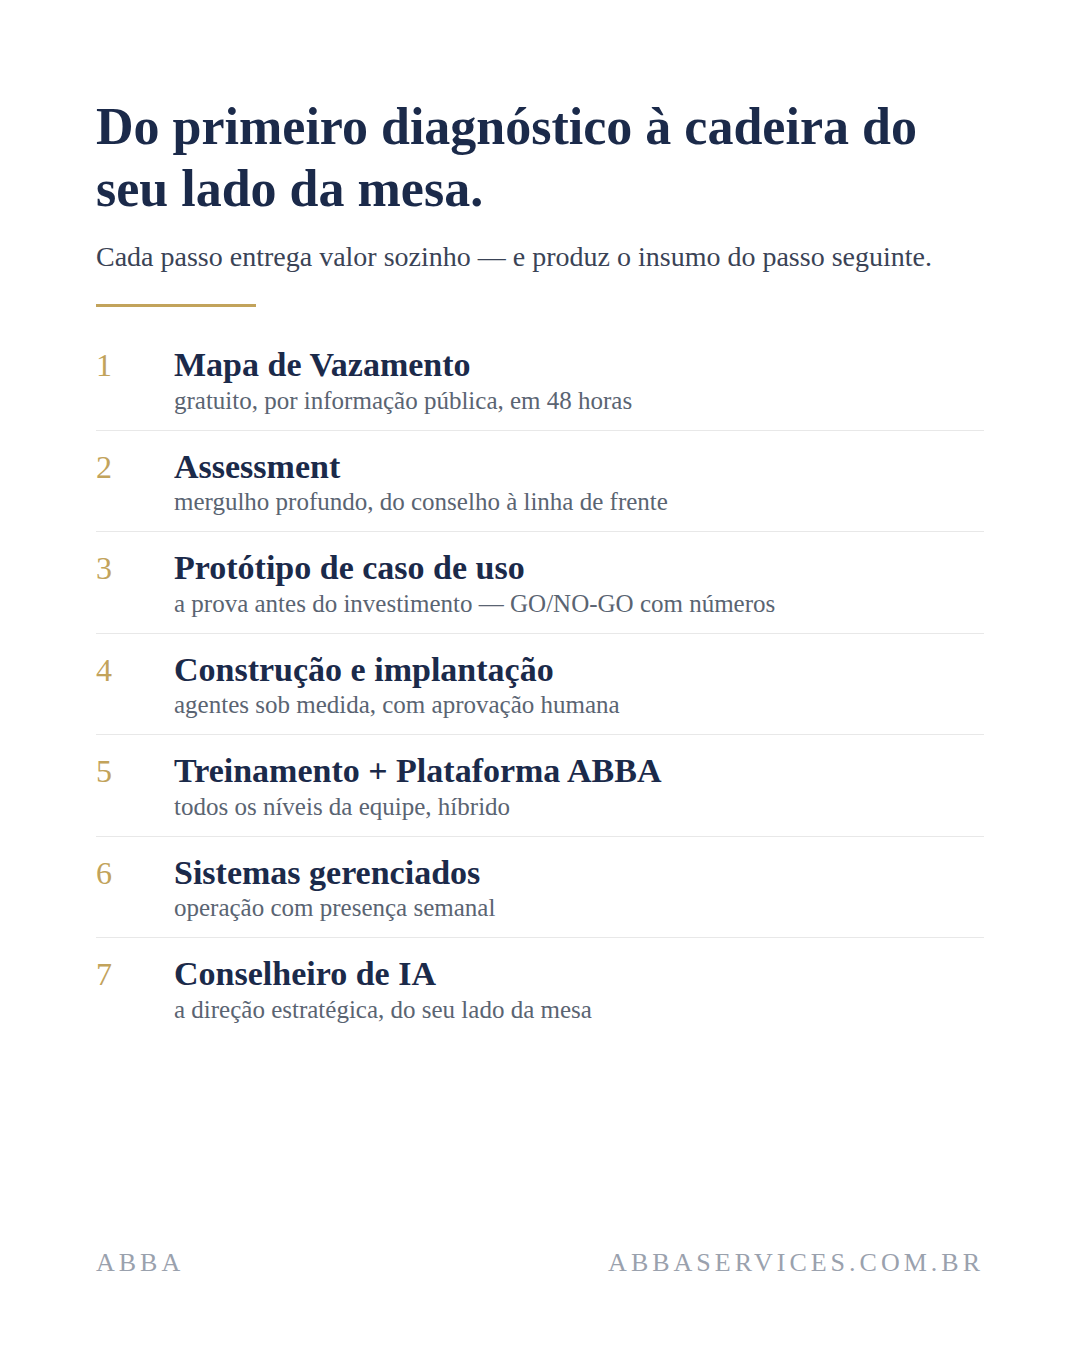
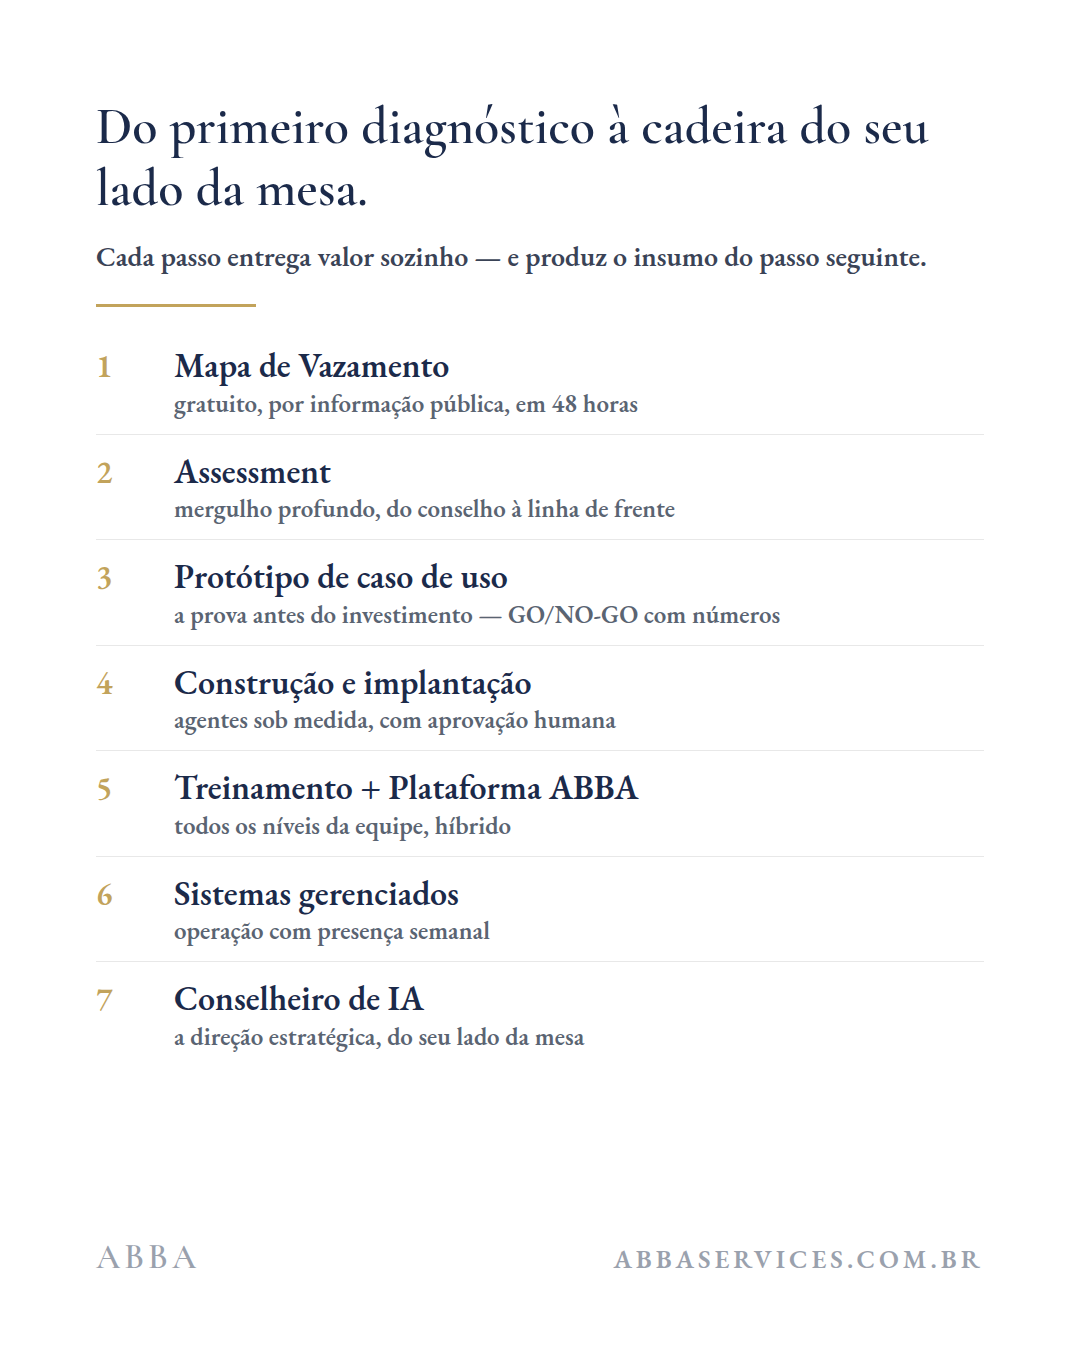
Materiais de marketing v4 completos: grade, templates e nominais
Grade-vitrine e templates de post migrados para a tipografia da marca
(Cormorant display + EB Garamond no corpo) com o wordmark limpo no
rodape e no lugar do simbolo antigo; 16 quadros re-exportados. Ativos
de export/ substituidos pelas versoes v4. Cartoes de visita e
assinaturas de e-mail nominais do Daniel e do Pedro.

Claude-Session: https://claude.ai/code/session_01P1NuzuZ6oRdWWVA2eDhNti

diff --git a/08-materiais/marca/oficial/nominais.html b/08-materiais/marca/oficial/nominais.html
@@ -1,0 +1,88 @@
+<!doctype html>
+<html lang="pt-BR">
+<head>
+<meta charset="utf-8">
+<title>ABBA — cartões e assinaturas nominais</title>
+<style>
+  @font-face { font-family: 'Cormorant'; src: url('../wordmark/fonts/CormorantGaramond.ttf'); font-weight: 100 900; }
+  @font-face { font-family: 'EBGaramond'; src: url('../wordmark/fonts/EBGaramond.ttf'); font-weight: 100 900; }
+  * { margin: 0; padding: 0; box-sizing: border-box; }
+  body { background: #4a4a4a; }
+  .asset { margin: 20px auto; }
+  .mark { font-family: 'Cormorant', serif; font-weight: 600; line-height: 1;
+          letter-spacing: 0.12em; text-indent: 0.12em; }
+  .vers { font-family: 'EBGaramond', serif; letter-spacing: 0.3em; text-indent: 0.3em;
+          text-transform: uppercase; }
+
+  .cartao { width: 1050px; height: 600px; background: #FFFFFF; padding: 70px 80px;
+            display: flex; flex-direction: column; justify-content: space-between; }
+  .cartao .topo .mark { font-size: 74px; color: #1B2A4A; }
+  .cartao .meio { display: flex; flex-direction: column; gap: 8px; }
+  .cartao .meio .filete-h { width: 120px; height: 2px; background: #C2A35B; margin-bottom: 18px; }
+  .cartao .meio .nome { font-family: 'Cormorant', serif; font-weight: 600; font-size: 52px;
+                        color: #1B2A4A; }
+  .cartao .meio .cargo { font-size: 21px; color: #C2A35B; }
+  .cartao .base { font-family: 'EBGaramond', serif; font-size: 26px; color: #5A6472;
+                  display: flex; justify-content: space-between; }
+
+  .ass { width: 700px; height: 230px; background: #FFFFFF; display: flex; align-items: center;
+         padding: 0 40px; gap: 36px; }
+  .ass .mark { font-size: 84px; color: #1B2A4A; }
+  .ass .filete-v { width: 2px; height: 120px; background: #C2A35B; }
+  .ass .info { display: flex; flex-direction: column; gap: 6px; }
+  .ass .info .nome { font-family: 'Cormorant', serif; font-weight: 600; font-size: 34px; color: #1B2A4A; }
+  .ass .info .cargo { font-family: 'EBGaramond', serif; font-size: 16px; color: #C2A35B;
+                      letter-spacing: 0.22em; text-transform: uppercase; }
+  .ass .info .site { font-family: 'EBGaramond', serif; font-size: 18px; color: #5A6472; margin-top: 6px; }
+</style>
+</head>
+<body>
+
+<div class="asset cartao" id="cartao-daniel">
+  <div class="topo"><span class="mark">ABBA</span></div>
+  <div class="meio">
+    <div class="filete-h"></div>
+    <div class="nome">Daniel Moraes Coca</div>
+    <div class="cargo vers">Sócio-fundador</div>
+  </div>
+  <div class="base">
+    <span>daniel.coca@abbaservices.com.br</span>
+    <span>abbaservices.com.br</span>
+  </div>
+</div>
+
+<div class="asset cartao" id="cartao-pedro">
+  <div class="topo"><span class="mark">ABBA</span></div>
+  <div class="meio">
+    <div class="filete-h"></div>
+    <div class="nome">Pedro Moura Durães</div>
+    <div class="cargo vers">Sócio-fundador</div>
+  </div>
+  <div class="base">
+    <span>pedro.duraes@abbaservices.com.br</span>
+    <span>abbaservices.com.br</span>
+  </div>
+</div>
+
+<div class="asset ass" id="ass-daniel">
+  <span class="mark">ABBA</span>
+  <div class="filete-v"></div>
+  <div class="info">
+    <div class="nome">Daniel Moraes Coca</div>
+    <div class="cargo">Sócio-fundador</div>
+    <div class="site">daniel.coca@abbaservices.com.br · abbaservices.com.br</div>
+  </div>
+</div>
+
+<div class="asset ass" id="ass-pedro">
+  <span class="mark">ABBA</span>
+  <div class="filete-v"></div>
+  <div class="info">
+    <div class="nome">Pedro Moura Durães</div>
+    <div class="cargo">Sócio-fundador</div>
+    <div class="site">pedro.duraes@abbaservices.com.br · abbaservices.com.br</div>
+  </div>
+</div>
+
+</body>
+</html>

diff --git a/08-materiais/marca/grade-vitrine.html b/08-materiais/marca/grade-vitrine.html
@@ -11,8 +11,10 @@
   premissa, citação institucional sem autor, rodapé ABBA · abbaservices.com.br.
 -->
 <style>
+  @font-face { font-family: 'Cormorant'; src: url('wordmark/fonts/CormorantGaramond.ttf'); font-weight: 100 900; }
+  @font-face { font-family: 'EBGaramond'; src: url('wordmark/fonts/EBGaramond.ttf'); font-weight: 100 900; }
   * { margin: 0; padding: 0; box-sizing: border-box; }
-  body { background: #333; font-family: Cambria, Georgia, 'Times New Roman', serif; }
+  body { background: #333; font-family: 'EBGaramond', Georgia, serif; }
   .frame { position: relative; overflow: hidden; margin: 24px auto; }
   .f45 { width: 1080px; height: 1350px; }
   .f11 { width: 1080px; height: 1080px; }
@@ -21,10 +23,11 @@
   .rodape { position: absolute; left: 96px; right: 96px; bottom: 72px;
             display: flex; justify-content: space-between; align-items: baseline;
             font-size: 26px; letter-spacing: 4px; text-transform: uppercase; }
+  .rodape span:first-child { font-family: 'Cormorant', serif; font-weight: 600;
+            font-size: 34px; letter-spacing: 0.12em; }
 
   .navy  { background: #1B2A4A; color: #FFFFFF; padding: 120px 96px; }
-  .navy .simbolo { position: absolute; right: -110px; bottom: -60px; width: 520px; opacity: 0.16; }
-  .navy h1 { font-size: 84px; line-height: 1.16; font-weight: 600; max-width: 860px; margin: 48px 0 56px; }
+  .navy h1 { font-family: 'Cormorant', serif; font-size: 84px; line-height: 1.16; font-weight: 600; max-width: 860px; margin: 48px 0 56px; }
   .navy h1 em { font-style: normal; color: #C2A35B; }
   .navy .filete { width: 220px; margin-bottom: 40px; }
   .navy .sub { font-size: 38px; line-height: 1.45; color: #B9C0CE; max-width: 780px; }
@@ -32,7 +35,7 @@
 
   .branco { background: #FFFFFF; color: #1B2A4A; padding: 120px 96px; }
   .branco .num { font-size: 44px; color: #C2A35B; margin-bottom: 24px; font-variant-numeric: tabular-nums; }
-  .branco h2 { font-size: 62px; line-height: 1.2; font-weight: 600; margin-bottom: 48px; max-width: 860px; }
+  .branco h2 { font-family: 'Cormorant', serif; font-size: 62px; line-height: 1.2; font-weight: 600; margin-bottom: 48px; max-width: 860px; }
   .branco .filete { width: 160px; margin-bottom: 56px; }
   .branco p { font-size: 40px; line-height: 1.55; color: #3A4356; max-width: 870px; margin-bottom: 36px; }
   .branco p strong { color: #1B2A4A; }
@@ -40,12 +43,12 @@
 
   .citacao { background: #1B2A4A; color: #FFFFFF; padding: 110px 96px; display: flex; flex-direction: column; }
   .citacao .aspas { font-size: 200px; line-height: 0.6; color: #C2A35B; margin-bottom: 20px; }
-  .citacao blockquote { font-size: 60px; line-height: 1.32; font-weight: 600; max-width: 880px; flex: 1; }
+  .citacao blockquote { font-family: 'Cormorant', serif; font-size: 60px; line-height: 1.32; font-weight: 600; max-width: 880px; flex: 1; }
   .citacao .rodape { color: #8C96A8; } .citacao .rodape .m { color: #C2A35B; }
 
   .numero { background: #FFFFFF; color: #1B2A4A; padding: 110px 96px; display: flex; flex-direction: column; }
   .numero .eyebrow { margin-bottom: 64px; }
-  .numero .big { font-size: 250px; line-height: 1; font-weight: 700; font-variant-numeric: tabular-nums; }
+  .numero .big { font-family: 'Cormorant', serif; font-size: 250px; line-height: 1; font-weight: 700; font-variant-numeric: tabular-nums; }
   .numero .big small { font-size: 110px; color: #C2A35B; }
   .numero .filete { width: 180px; margin: 44px 0; }
   .numero p { font-size: 41px; line-height: 1.5; color: #3A4356; max-width: 850px; }

diff --git a/08-materiais/marca/templates-posts.html b/08-materiais/marca/templates-posts.html
@@ -21,7 +21,11 @@
 -->
 <style>
   * { margin: 0; padding: 0; box-sizing: border-box; }
-  body { background: #333; font-family: Cambria, Georgia, 'Times New Roman', serif; }
+  @font-face { font-family: 'Cormorant'; src: url('wordmark/fonts/CormorantGaramond.ttf'); font-weight: 100 900; }
+  @font-face { font-family: 'EBGaramond'; src: url('wordmark/fonts/EBGaramond.ttf'); font-weight: 100 900; }
+  body { background: #333; font-family: 'EBGaramond', Georgia, serif; }
+  .wmark { font-family: 'Cormorant', serif; font-weight: 600; letter-spacing: 0.12em;
+           text-indent: 0.12em; line-height: 1; }
   .frame { position: relative; overflow: hidden; margin: 24px auto; }
   .f-1080x1350 { width: 1080px; height: 1350px; }
   .f-1080x1080 { width: 1080px; height: 1080px; }
@@ -36,6 +40,7 @@
     display: flex; justify-content: space-between; align-items: baseline;
     font-size: 26px; letter-spacing: 4px; text-transform: uppercase;
   }
+  .rodape span:first-child { font-family: 'Cormorant', serif; font-weight: 600; font-size: 32px; letter-spacing: 0.12em; }
 
   /* ---------- 1. CAPA DE CARROSSEL (navy) ---------- */
   .capa { background: #1B2A4A; color: #FFFFFF; padding: 120px 96px; }
@@ -98,7 +103,7 @@
 
 <!-- ============ 1. CAPA DE CARROSSEL — 1080×1350 ============ -->
 <div class="frame f-1080x1350 capa" id="t1-capa">
-  <img class="simbolo" src="abba-logo-simbolo.svg" alt="">
+  <div class="wmark" style="font-size:120px;color:#FFFFFF;margin-bottom:56px">ABBA</div>
   <div class="eyebrow">[Série ou pilar — ex.: Prova, não impressão]</div>
   <h1>[Afirmação forte em uma frase, com <em>o termo-chave</em> em dourado]</h1>
   <hr class="filete">
@@ -118,7 +123,7 @@
 
 <!-- ============ 3. SLIDE-CTA — 1080×1350 ============ -->
 <div class="frame f-1080x1350 cta" id="t3-cta">
-  <img class="simbolo" src="abba-logo-simbolo.svg" alt="ABBA">
+  <div class="wmark" style="font-size:110px;color:#1B2A4A;margin-bottom:56px">ABBA</div>
   <h2>[Fecho: a conclusão que o leitor leva embora]</h2>
   <hr class="filete">
   <p>[Convite concreto e único — ex.: <b>peça o Mapa de Vazamento gratuito</b>: uma análise da sua empresa por informação pública, entregue em 48 horas.]</p>

diff --git a/08-materiais/marca/README.md b/08-materiais/marca/README.md
@@ -9,13 +9,13 @@
 - `abba-logo.png` — o símbolo original, cérebro-grafo (histórico; preservar, não usar em material novo).
 - `abba-logo-*.svg` — a família vetorizada v2, símbolo "a fonte": nó-origem na base, jorros que sobem e se ramificam em rede (3 cores, horizontal e empilhado em claro/escuro). Gerada por script determinístico; para variações novas, editar os SVGs diretamente ou refazer o gerador.
 - `abba-avatar-1080.svg`, `abba-banner-linkedin-empresa.svg`, `abba-capa-linkedin-pessoal.svg` — ativos de rede social prontos.
-- `templates-posts.html` — os 5 templates de post editáveis (instruções no topo do arquivo).
-- `grade-vitrine.html` — os 9 posts de lançamento do Instagram com conteúdo real (16 quadros; fonte editável).
-- `export/` — os PNGs finais prontos para subir: 6 ativos de marca + as 16 imagens da grade. Regenerar a partir dos SVGs/HTML quando o texto mudar.
+- `templates-posts.html` — os 5 templates de post editáveis (instruções no topo do arquivo), já na tipografia da marca (Cormorant nos títulos e no rodapé-marca, EB Garamond no corpo) e com o wordmark limpo no lugar do símbolo antigo.
+- `grade-vitrine.html` — os 9 posts de lançamento do Instagram com conteúdo real (16 quadros; fonte editável), atualizada para a tipografia da marca (v4).
+- `export/` — os PNGs finais prontos para subir: 5 ativos de marca (v4, copiados de `oficial/`) + as 16 imagens da grade (v4). Regenerar a partir de `oficial/assets-oficiais.html` e `grade-vitrine.html` quando o texto mudar.
 - `abba-kit-social.pdf` — kit da era "símbolo fonte" (histórico).
 - **`abba-kit-inicial.pdf` — O DOCUMENTO: kit inicial consolidado da ABBA** (marca wordmark + ativos + perfis + grade com legendas + estratégia + checklist + brief para designer + fontes da pesquisa). É o que se manda para o Pedro aprovar e o que se entrega à agência.
 - `rotas/` — **estudo de marca em 8 rotas (agência, 2 rodadas)**: monograma A·, nascente geométrica, o selo e "a herança do nome" (selo com o raio da fonte; variante aleph) — cada uma com racional e mockups (avatar, cartão, timbrado, tela). `abba-estudo-marca.pdf` é a apresentação de 11 páginas para os sócios decidirem; 3 finalistas registrados: Rota 4 "o raio", Rota 6 "o abraço", Rota 7 "o manancial"; aleph como variação de colecionador. Rodada 3: `hebraico.html` + `heb-pai.png`/`heb-fonte.png` — estudo tipográfico das palavras hebraicas ligadas ao nome (אבא e מקור), 10 tratamentos cada, para avaliar uma marca de herança caligráfica. Rodada 3B: `fusoes.html` + `heb-fusoes.png` — as duas palavras desmontadas e recompostas (roseta, trança, carimbo, totem, rotações etc.): símbolos que não se leem como hebraico à primeira vista mas se desmancham nas duas palavras. Rodada 3C: `fluida.html` + `flu-pai.png`/`flu-fonte.png` — cada letra redesenhada como traço monolinha fluido (desenho autoral em vetor, não fonte tipográfica), com a tradução letra a letra e as montagens conectadas: "no fio" (as letras sobre o manancial), a ligadura de אבא (dois encontros apoiados na casa dourada) e מקור pendendo da linha-fonte com a gota descendo do vav. **Decisão (Daniel, 2026-08-11): nenhum símbolo — a marca é o wordmark ABBA.** As rotas e os estudos hebraicos ficam como arquivo de exploração.
-- **`oficial/` — OS ATIVOS VIGENTES (wordmark limpo, v4)**: avatar 1080, lockups horizontais claro/escuro, banner LinkedIn empresa (2256×382, editorial branco com a headline), capa LinkedIn pessoal (1584×396), cartão de visita frente/verso (1050×600), timbrado A4 e assinatura de e-mail — `assets-oficiais.html` é a fonte editável (nome/cargo do cartão e da assinatura são placeholders para preencher por sócio).
+- **`oficial/` — OS ATIVOS VIGENTES (wordmark limpo, v4)**: avatar 1080, lockups horizontais claro/escuro, banner LinkedIn empresa (2256×382, editorial branco com a headline), capa LinkedIn pessoal (1584×396), cartão de visita frente/verso (1050×600), timbrado A4 e assinatura de e-mail — `assets-oficiais.html` é a fonte editável. Em `nominais/`, os cartões (verso) e assinaturas de e-mail prontos do Daniel e do Pedro (`nominais.html` é a fonte; a frente do cartão é a mesma para os dois: `cartao-frente.png`).
 - `wordmark/` — era ponto-fonte (histórico): `wm_assets.html`, `wordmarks.html` (5 estudos), `fonts/` (OFL) e `export/`. Em `evento/`, o kit de produção da logo limpa para brindes (PNGs transparentes, combinações e PDF vetorial + LEIA-ME para fornecedor).
 - `variante-cerebro/` — o MESMO kit inteiro com o símbolo cérebro: **vetorização fiel do abba-logo.png original** (68 nós e 112 conexões extraídos por análise de imagem; desvio médio de posição 0,1%), com as correções de um parecer de design independente: aresta perdida restaurada, linhas em dourado a 50% de opacidade (recuam; nós lideram — a hierarquia do original), traço engrossado para sobreviver em 48px, marca a 65% do canvas no avatar. SVGs, grade, `export/` com os 22 PNGs e `abba-kit-social-cerebro.pdf`. Existe para os sócios compararem e decidirem o símbolo definitivo; a decisão deve ser registrada aqui quando tomada.
 
